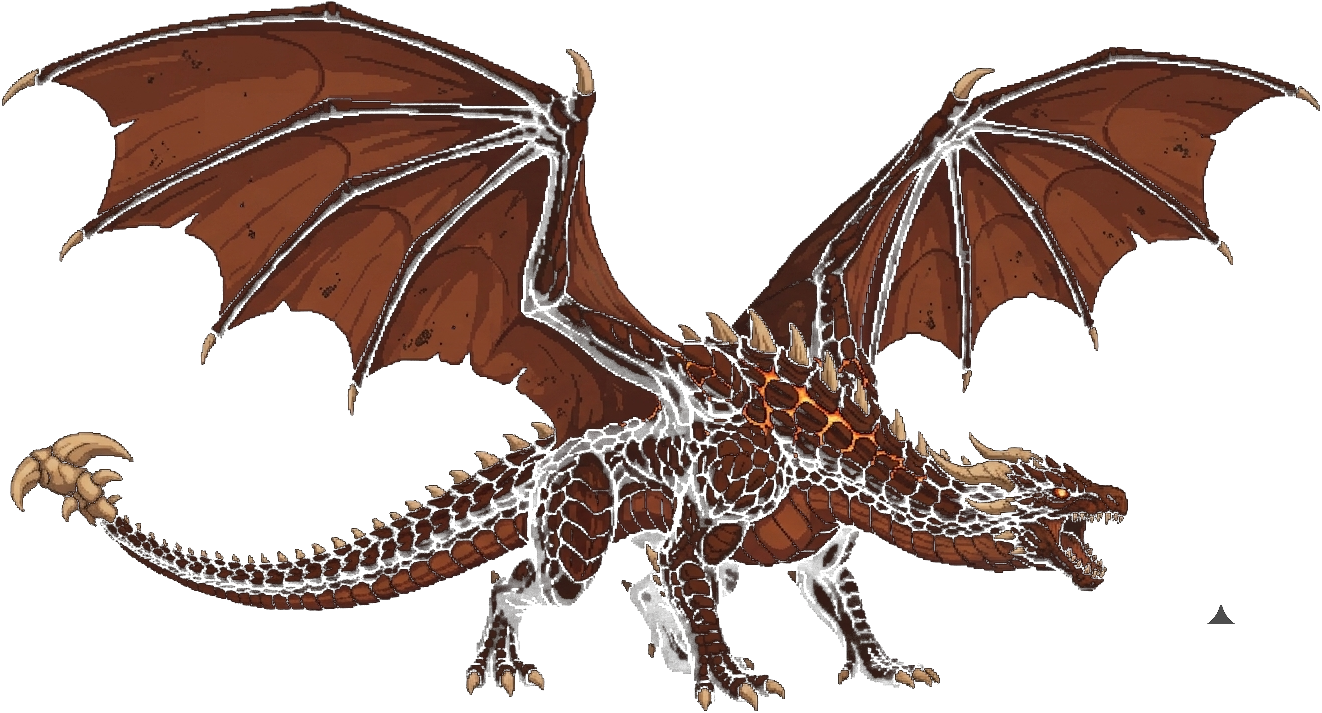
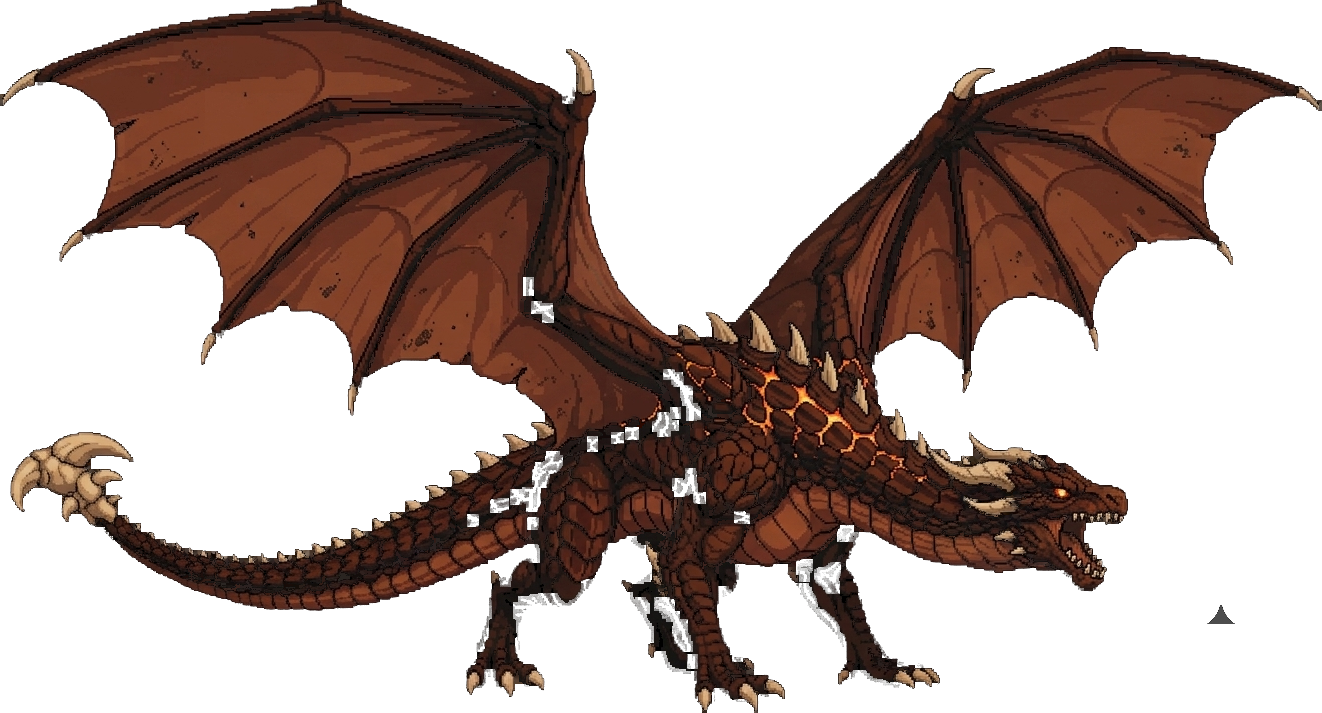
eggwar v2.50 — 보스 시트 투명 실금·반투명 균열 인페인팅(배경 비침 수리), 파수병 리깅 구멍 보정
Claude-Session: https://claude.ai/code/session_016Knotu6mMMMg8S1HEFVpTR

diff --git a/eggwar/index.html b/eggwar/index.html
@@ -17,24 +17,24 @@
 <meta property="og:title" content="계란들의 전쟁 — 계란 부족 비대칭 실시간 대전">
 <meta property="og:description" content="계란 전사들의 전쟁. 진형을 짜는 사람과 영웅을 모는 사람이 같은 판에서 싸운다.">
 <meta property="og:type" content="website">
-<link rel="stylesheet" href="css/style.css?v=2.49">
+<link rel="stylesheet" href="css/style.css?v=2.50">
 
 <!-- 설치(PWA). 홈 화면에서 열면 주소창이 사라져 뷰포트가 흔들리지 않는다 —
      기종별 레이아웃 사고의 원인을 제거하는 것이 목적이다.
      viewport-fit=cover 는 일부러 넣지 않는다: 노치 아래로 캔버스가 파고들면
      letterbox 계산이 또 어긋난다. standalone 만으로 주소창 문제는 해결된다. -->
-<link rel="manifest" href="manifest.json?v=2.49">
+<link rel="manifest" href="manifest.json?v=2.50">
 <meta name="theme-color" content="#123f96">
 <meta name="mobile-web-app-capable" content="yes">
 <meta name="apple-mobile-web-app-capable" content="yes">
 <meta name="apple-mobile-web-app-title" content="계란들의 전쟁">
 <meta name="apple-mobile-web-app-status-bar-style" content="default">
-<link rel="apple-touch-icon" href="icons/apple-touch-icon.png?v=2.49">
-<link rel="icon" type="image/png" sizes="192x192" href="icons/icon-192.png?v=2.49">
+<link rel="apple-touch-icon" href="icons/apple-touch-icon.png?v=2.50">
+<link rel="icon" type="image/png" sizes="192x192" href="icons/icon-192.png?v=2.50">
 </head>
 <body>
 <div id="game"></div>
-<div id="ver">v2.49</div>
+<div id="ver">v2.50</div>
 <div id="rotate">
   <div>
     <div id="rotate-icon">📱</div>
@@ -59,118 +59,118 @@
         crossorigin="anonymous" referrerpolicy="no-referrer"></script>
 <!-- Phaser 의 타원 그리기가 호출마다 만들던 쓰레기를 없앤다(2026-08-05).
      ⚠ Phaser **바로 뒤**여야 한다 — 프로토타입을 갈아끼우므로 어떤 씬보다 먼저 돌아야 한다. -->
-<script src="js/gfxpool.js?v=2.49"></script>
+<script src="js/gfxpool.js?v=2.50"></script>
 <!-- 세로에서 게임을 90도 눕혀 가로로 — 잠금 API 없는 기기의 정답(js/rot90.js 주석) -->
-<script src="js/rot90.js?v=2.49"></script>
-<script src="js/config.js?v=2.49"></script>
-<script src="js/store.js?v=2.49"></script>
-<script src="js/pwa.js?v=2.49"></script>
-<script src="js/sound.js?v=2.49"></script>
-<script src="js/music.js?v=2.49"></script>
-<script src="js/api.js?v=2.49"></script>
-<script src="js/account.js?v=2.49"></script>
-<script src="js/score.js?v=2.49"></script>
-<script src="js/iso.js?v=2.49"></script>
-<script src="js/layout.js?v=2.49"></script>
-<script src="js/learn.js?v=2.49"></script>
-<script src="js/profile.js?v=2.49"></script>
-<script src="js/autoformation.js?v=2.49"></script>
-<script src="js/tower.js?v=2.49"></script>
-<script src="js/towerlearn.js?v=2.49"></script>
-<script src="js/defendtower.js?v=2.49"></script>
-<script src="js/towerrun.js?v=2.49"></script>
+<script src="js/rot90.js?v=2.50"></script>
+<script src="js/config.js?v=2.50"></script>
+<script src="js/store.js?v=2.50"></script>
+<script src="js/pwa.js?v=2.50"></script>
+<script src="js/sound.js?v=2.50"></script>
+<script src="js/music.js?v=2.50"></script>
+<script src="js/api.js?v=2.50"></script>
+<script src="js/account.js?v=2.50"></script>
+<script src="js/score.js?v=2.50"></script>
+<script src="js/iso.js?v=2.50"></script>
+<script src="js/layout.js?v=2.50"></script>
+<script src="js/learn.js?v=2.50"></script>
+<script src="js/profile.js?v=2.50"></script>
+<script src="js/autoformation.js?v=2.50"></script>
+<script src="js/tower.js?v=2.50"></script>
+<script src="js/towerlearn.js?v=2.50"></script>
+<script src="js/defendtower.js?v=2.50"></script>
+<script src="js/towerrun.js?v=2.50"></script>
 <!-- 영구 캐릭터(2026-08-01) — 탑이 더는 towerrun.js 의 도전(run) 개념을 안 쓴다.
      towerrun.js 는 대전(arenabuild.js)이 가격표를 빌려 쓰므로 그대로 둔다. -->
-<script src="js/towerchar.js?v=2.49"></script>
-<script src="js/droppopup.js?v=2.49"></script>
+<script src="js/towerchar.js?v=2.50"></script>
+<script src="js/droppopup.js?v=2.50"></script>
 <!-- 전장 말풍선(2026-08-22) — 적이 영웅을 발견하면 닉네임 부르며 도발한다. 순수 데이터. -->
-<script src="js/banter.js?v=2.49"></script>
-<script src="js/towershopitems.js?v=2.49"></script>
+<script src="js/banter.js?v=2.50"></script>
+<script src="js/towershopitems.js?v=2.50"></script>
 <!-- 통곡의 탑 대개편 — 층 배치 원형 / 층 조건.
      towerrun.js 뒤에 둔다: 둘 다 `TowerRun.get().seed` 를 읽어 원형·조건을 정한다. -->
-<script src="js/towercurriculum.js?v=2.49"></script>
-<script src="js/towerplan.js?v=2.49"></script>
-<script src="js/towerrule.js?v=2.49"></script>
+<script src="js/towercurriculum.js?v=2.50"></script>
+<script src="js/towerplan.js?v=2.50"></script>
+<script src="js/towerrule.js?v=2.50"></script>
 <!-- 대개편 2단계 — 구슬 효과표(내 쪽 행동) / 층 목표(이기는 길).
      두 갈래 문은 제거했다(2026-07-31). towerboon.js 는 이제 **효과 정의만** 담당하고,
      얻는 방법은 js/orb.js 가 쥔다. towerobjective 는 순서 자유이나 함께 둔다. -->
-<script src="js/towerboon.js?v=2.49"></script>
-<script src="js/towerobjective.js?v=2.49"></script>
-<script src="js/unitlevel.js?v=2.49"></script>
-<script src="js/arena.js?v=2.49"></script>
-<script src="js/rtscore.js?v=2.49"></script>
+<script src="js/towerboon.js?v=2.50"></script>
+<script src="js/towerobjective.js?v=2.50"></script>
+<script src="js/unitlevel.js?v=2.50"></script>
+<script src="js/arena.js?v=2.50"></script>
+<script src="js/rtscore.js?v=2.50"></script>
 <!-- 실시간 준비 흐름(2026-08-22) — 역할 확정 후 60초 준비 단계의 전역 상태 -->
-<script src="js/rtflow.js?v=2.49"></script>
-<script src="js/arenabuild.js?v=2.49"></script>
-<script src="js/units.js?v=2.49"></script>
-<script src="js/heroes.js?v=2.49"></script>
-<script src="js/items.js?v=2.49"></script>
-<script src="js/formations.js?v=2.49"></script>
+<script src="js/rtflow.js?v=2.50"></script>
+<script src="js/arenabuild.js?v=2.50"></script>
+<script src="js/units.js?v=2.50"></script>
+<script src="js/heroes.js?v=2.50"></script>
+<script src="js/items.js?v=2.50"></script>
+<script src="js/formations.js?v=2.50"></script>
 <!-- 실시간 대전 통신층(P3) — BASE 가 살아 있으면 켜진다. 호출부는 versus 계열 씬. -->
-<script src="js/netroom.js?v=2.49"></script>
-<script src="js/netrtc.js?v=2.49"></script>
-<script src="js/lockstep.js?v=2.49"></script>
-<script src="js/detmath.js?v=2.49"></script>
-<script src="js/combat.js?v=2.49"></script>
-<script src="js/input.js?v=2.49"></script>
-<script src="js/touchpad.js?v=2.49"></script>
-<script src="js/aihero.js?v=2.49"></script>
-<script src="js/ui.js?v=2.49"></script>
-<script src="js/ui-theme.js?v=2.49"></script>
-<script src="js/ui-hud.js?v=2.49"></script>
-<script src="js/theme-a.js?v=2.49"></script>
-<script src="js/theme-b.js?v=2.49"></script>
-<script src="js/theme-c.js?v=2.49"></script>
-<script src="js/theme-switch.js?v=2.49"></script>
-<script src="js/modal.js?v=2.49"></script>
-<script src="js/eggart.js?v=2.49"></script>
-<script src="js/lobbyart.js?v=2.49"></script>
-<script src="js/tutorial.js?v=2.49"></script>
-<script src="js/bossbank.js?v=2.49"></script>
+<script src="js/netroom.js?v=2.50"></script>
+<script src="js/netrtc.js?v=2.50"></script>
+<script src="js/lockstep.js?v=2.50"></script>
+<script src="js/detmath.js?v=2.50"></script>
+<script src="js/combat.js?v=2.50"></script>
+<script src="js/input.js?v=2.50"></script>
+<script src="js/touchpad.js?v=2.50"></script>
+<script src="js/aihero.js?v=2.50"></script>
+<script src="js/ui.js?v=2.50"></script>
+<script src="js/ui-theme.js?v=2.50"></script>
+<script src="js/ui-hud.js?v=2.50"></script>
+<script src="js/theme-a.js?v=2.50"></script>
+<script src="js/theme-b.js?v=2.50"></script>
+<script src="js/theme-c.js?v=2.50"></script>
+<script src="js/theme-switch.js?v=2.50"></script>
+<script src="js/modal.js?v=2.50"></script>
+<script src="js/eggart.js?v=2.50"></script>
+<script src="js/lobbyart.js?v=2.50"></script>
+<script src="js/tutorial.js?v=2.50"></script>
+<script src="js/bossbank.js?v=2.50"></script>
 <!-- 보스 관절 리깅(2026-08-22) — 부위 분할 애니메이션. bossbank 이 위임한다. -->
-<script src="js/bossrig.js?v=2.49"></script>
-<script src="js/gearbank.js?v=2.49"></script>
-<script src="js/bossart.js?v=2.49"></script>
-<script src="js/dragonasset.js?v=2.49"></script>
-<script src="js/itemart.js?v=2.49"></script>
-<script src="js/coin.js?v=2.49"></script>
+<script src="js/bossrig.js?v=2.50"></script>
+<script src="js/gearbank.js?v=2.50"></script>
+<script src="js/bossart.js?v=2.50"></script>
+<script src="js/dragonasset.js?v=2.50"></script>
+<script src="js/itemart.js?v=2.50"></script>
+<script src="js/coin.js?v=2.50"></script>
 <!-- 구슬 — 적을 잡으면 확률로 떨어지는 능력 구슬. coin.js 와 같은 문법이라 뒤에 둔다. -->
-<script src="js/orb.js?v=2.49"></script>
+<script src="js/orb.js?v=2.50"></script>
 <!-- 치유 구역(2026-08-01) — 물약을 대신한다. orb.js 와 같은 문법. -->
-<script src="js/healzone.js?v=2.49"></script>
+<script src="js/healzone.js?v=2.50"></script>
 <!-- 타격 파티클(2026-08-04) — 텍스처를 런타임에 구워 자산 0KB 를 지킨다. -->
-<script src="js/hitfx.js?v=2.49"></script>
-<script src="js/skillfx.js?v=2.49"></script>
-<script src="js/scenes/loading.js?v=2.49"></script>
-<script src="js/scenes/login.js?v=2.49"></script>
-<script src="js/scenes/menu.js?v=2.49"></script>
-<script src="js/scenes/select.js?v=2.49"></script>
-<script src="js/scenes/build.js?v=2.49"></script>
-<script src="js/scenes/draft.js?v=2.49"></script>
-<script src="js/scenes/draft-mobile.js?v=2.49"></script>
-<script src="js/scenes/battle.js?v=2.49"></script>
-<script src="js/scenes/defend.js?v=2.49"></script>
-<script src="js/scenes/defend-tower.js?v=2.49"></script>
-<script src="js/scenes/versus.js?v=2.49"></script>
-<script src="js/scenes/rtlobby.js?v=2.49"></script>
-<script src="js/scenes/rtprep.js?v=2.49"></script>
-<script src="js/scenes/result.js?v=2.49"></script>
+<script src="js/hitfx.js?v=2.50"></script>
+<script src="js/skillfx.js?v=2.50"></script>
+<script src="js/scenes/loading.js?v=2.50"></script>
+<script src="js/scenes/login.js?v=2.50"></script>
+<script src="js/scenes/menu.js?v=2.50"></script>
+<script src="js/scenes/select.js?v=2.50"></script>
+<script src="js/scenes/build.js?v=2.50"></script>
+<script src="js/scenes/draft.js?v=2.50"></script>
+<script src="js/scenes/draft-mobile.js?v=2.50"></script>
+<script src="js/scenes/battle.js?v=2.50"></script>
+<script src="js/scenes/defend.js?v=2.50"></script>
+<script src="js/scenes/defend-tower.js?v=2.50"></script>
+<script src="js/scenes/versus.js?v=2.50"></script>
+<script src="js/scenes/rtlobby.js?v=2.50"></script>
+<script src="js/scenes/rtprep.js?v=2.50"></script>
+<script src="js/scenes/result.js?v=2.50"></script>
 <!-- 이어하기(2026-08-05) — 계정이 없어 캐릭터가 기기에 갇히는 구멍을 메운다.
      Store/Account 뒤, 씬보다 앞. -->
 <!-- 닉네임+PIN(2026-08-05). ⚠ 서버(/auth/*)가 아직 없을 수 있다 —
      js/auth.js 가 404 를 만나면 예전처럼 PIN 없이 동작한다. -->
-<script src="js/auth.js?v=2.49"></script>
-<script src="js/pinui.js?v=2.49"></script>
-<script src="js/transfer.js?v=2.49"></script>
-<script src="js/transferui.js?v=2.49"></script>
-<script src="js/scenes/tower.js?v=2.49"></script>
+<script src="js/auth.js?v=2.50"></script>
+<script src="js/pinui.js?v=2.50"></script>
+<script src="js/transfer.js?v=2.50"></script>
+<script src="js/transferui.js?v=2.50"></script>
+<script src="js/scenes/tower.js?v=2.50"></script>
 <!-- 영구 캐릭터 대개편(2026-08-01) — 상점(아이템/스킬/능력치 탭) + 도전 진입 로딩. -->
-<script src="js/scenes/towershop.js?v=2.49"></script>
-<script src="js/scenes/towerloading.js?v=2.49"></script>
-<script src="js/onboard.js?v=2.49"></script>
-<script src="js/scenes/rank.js?v=2.49"></script>
-<script src="js/scenes/fitscene.js?v=2.49"></script>
-<script src="js/scenes/admin.js?v=2.49"></script>
-<script src="js/main.js?v=2.49"></script>
+<script src="js/scenes/towershop.js?v=2.50"></script>
+<script src="js/scenes/towerloading.js?v=2.50"></script>
+<script src="js/onboard.js?v=2.50"></script>
+<script src="js/scenes/rank.js?v=2.50"></script>
+<script src="js/scenes/fitscene.js?v=2.50"></script>
+<script src="js/scenes/admin.js?v=2.50"></script>
+<script src="js/main.js?v=2.50"></script>
 </body>
 </html>

diff --git a/eggwar/js/bossrig.js b/eggwar/js/bossrig.js
@@ -59,7 +59,7 @@ GAME.BossRig = (function () {
           poly: [[0, 0], [640, 0], [640, 110], [520, 180], [470, 300], [300, 350], [80, 340], [0, 300]] },
         //  뼈몽둥이 팔 — 예고에서 들었다가 발사에 내리친다. 뼈 능선만 따라 딴다
         //  (가슴 벨트·갈라진 배는 몸이다). 배 위 겹침은 eraseR 260 디스크가 전부 덮는다.
-        { name: 'club', behind: false, joint: [560, 590], eraseR: 260,
+        { name: 'club', behind: false, joint: [560, 590], eraseR: 285,
           anim: 'arm', phase: 0, amp: 0.028, speed: 1.5,
           poly: [[430, 510], [600, 530], [880, 460], [940, 425], [1096, 440], [1096, 660], [1000, 655], [820, 625], [620, 650], [560, 690], [450, 680], [415, 600]] }
       ]
@@ -69,7 +69,7 @@ GAME.BossRig = (function () {
         { name: 'banner', behind: true, joint: [450, 310], eraseR: 150,
           anim: 'sway', phase: 1.3, amp: 0.032, speed: 1.05,
           poly: [[0, 0], [600, 0], [600, 110], [500, 180], [450, 300], [300, 340], [80, 330], [0, 300]] },
-        { name: 'club', behind: false, joint: [570, 600], eraseR: 260,
+        { name: 'club', behind: false, joint: [570, 600], eraseR: 285,
           anim: 'arm', phase: 0.6, amp: 0.026, speed: 1.4,
           poly: [[430, 510], [600, 530], [880, 450], [940, 415], [1055, 430], [1055, 660], [1000, 660], [820, 630], [620, 660], [560, 700], [450, 690], [415, 610]] }
       ]
@@ -81,9 +81,9 @@ GAME.BossRig = (function () {
           anim: 'tail', phase: 0.8, amp: 0.07, speed: 1.2,
           poly: [[0, 260], [160, 230], [330, 280], [320, 460], [140, 500], [0, 460]] },
         //  머리 — 뿔 포함. 어깨 혹 판(x<950)은 몸에 남긴다. 앞다리 상단 겹침은 디스크 안.
-        { name: 'head', behind: false, joint: [990, 340], eraseR: 170,
+        { name: 'head', behind: false, joint: [990, 340], eraseR: 205,
           anim: 'head', phase: 0.3, amp: 0.035, speed: 1.5,
-          poly: [[950, 130], [1080, 130], [1216, 190], [1216, 500], [1080, 510], [980, 460], [930, 300]] }
+          poly: [[985, 145], [1090, 130], [1216, 190], [1216, 500], [1080, 510], [980, 460], [935, 300]] }
       ]
     },
     bossDrakeAsh: {

diff --git a/eggwar/js/main.js b/eggwar/js/main.js
@@ -1,6 +1,6 @@
 window.GAME = window.GAME || {};
 
-GAME.VERSION = 'v2.49';
+GAME.VERSION = 'v2.50';
 
 // 주소에 ?admin=1 을 붙이면 닉네임 관리 화면에 들어갈 수 있다
 GAME.isAdmin = /[?&]admin=1/.test(location.search || '');
